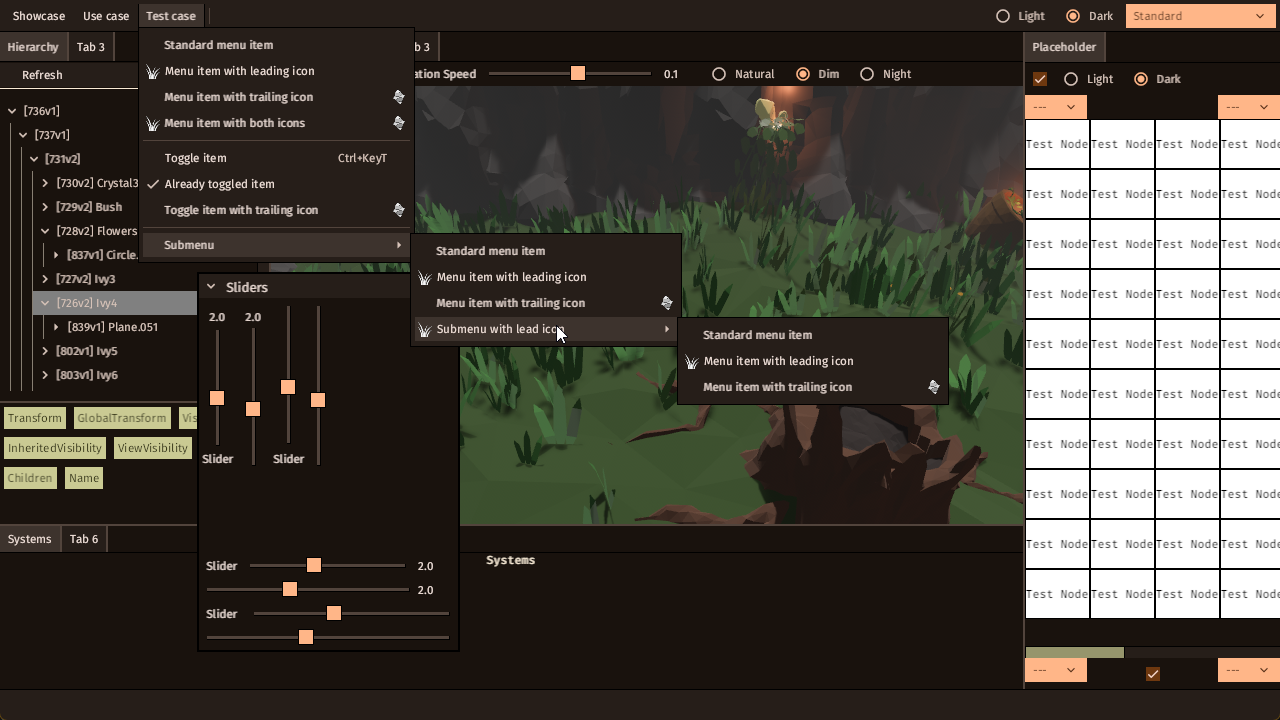
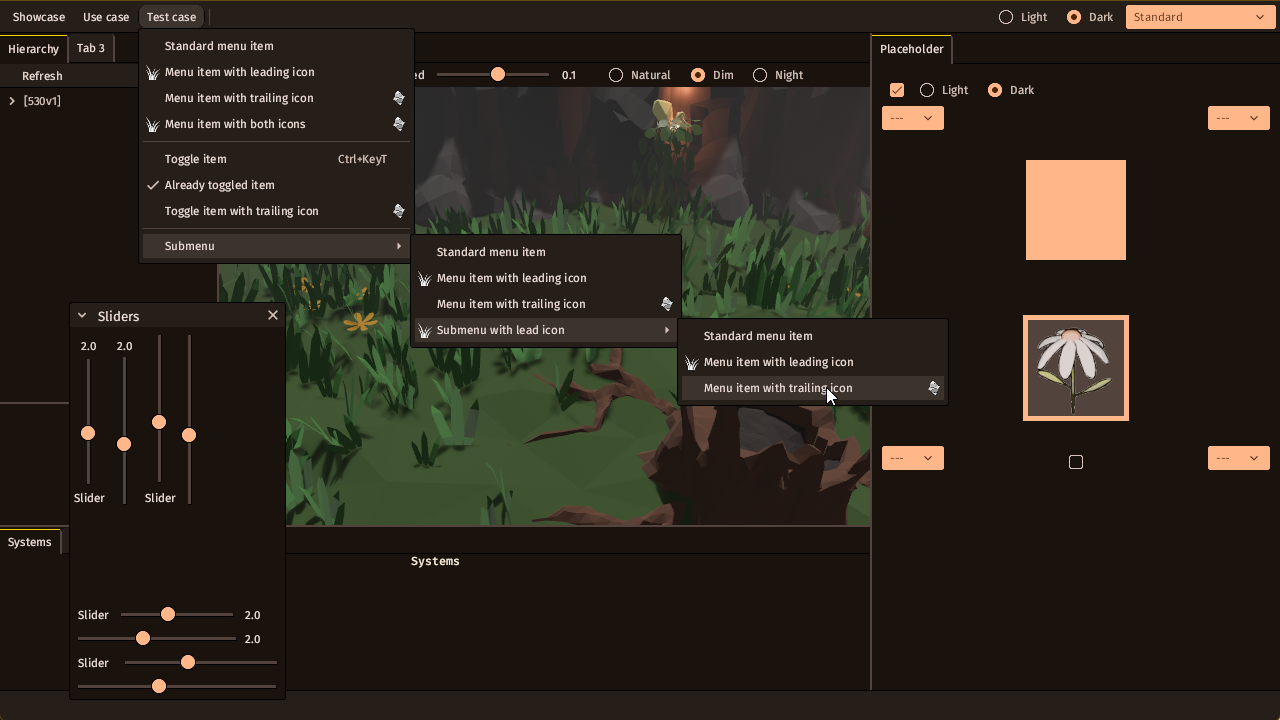
update assets

diff --git a/examples/simple_editor.rs b/examples/simple_editor.rs
@@ -27,7 +27,6 @@ fn main() {
         .add_plugins(OutlinedBlockPlugin)
         .add_plugins(TextureAtlasInteractionPlugin)
         .init_resource::<CurrentPage>()
-        .init_resource::<IconCache>()
         .init_state::<Page>()
         .add_plugins(HierarchyTreeViewPlugin)
         .add_plugins(SceneViewPlugin)
@@ -264,22 +263,32 @@ impl TextureAtlasInteraction {
             .atlas_index(AnimatedVals {
                 enter_from: Some(0),
                 idle: 7,
-                idle_alt: Some(11),
-                hover: Some(12),
-                hover_alt: Some(16),
-                press: Some(29),
+                idle_alt: Some(0),
+                hover: Some(8),
+                hover_alt: Some(15),
+                press: Some(16),
+                press_alt: Some(23),
+                cancel: Some(31),
                 ..default()
             })
-            .copy_from(theme_data.interaction_animation)
-            .enter(0.8, Ease::Linear, 1.)
-            .idle(0.5, Ease::Linear, 0., 0., AnimationLoop::PingPongContinous)
-            .hover(0.5, Ease::Linear, 0., 0., AnimationLoop::PingPongContinous)
-            .press(1.3, Ease::Linear, 0.)
-            .cancel(0.5, Ease::Linear, 0.);
+            .enter(0.4, Ease::Linear, 0.)
+            .idle(0.4, Ease::Linear, 0., 0., AnimationLoop::PingPongContinous)
+            .pointer_enter(0.4, Ease::Linear, 0.)
+            .hover(0.4, Ease::Linear, 0., 0., AnimationLoop::PingPongContinous)
+            .pointer_leave(0.4, Ease::Linear, 0.)
+            .press(0.4, Ease::Linear, 0.)
+            .pressed(0.4, Ease::Linear, 0., 0., AnimationLoop::PingPongContinous)
+            .release(0.4, Ease::Linear, 0.)
+            .cancel(0.8, Ease::Linear, 0.)
+            .cancel_reset(1.2, Ease::InOutCubic, 0.1);
     }
 
     fn frame() -> impl Bundle {
-        (Name::new("TextureAtlasInteraction"), ImageBundle::default())
+        (
+            Name::new("TextureAtlasInteraction"),
+            ImageBundle::default(),
+            Outline::default(),
+        )
     }
 }
 
@@ -292,8 +301,8 @@ impl UiTextureAtlasInteractionExt for UiBuilder<'_, Entity> {
         let mut result = self.spawn((TextureAtlasInteraction::frame(), TextureAtlasInteraction));
         // TODO: Replace with sharable asset
         result.style().image(ImageSource::Atlas(
-            String::from("examples/30FPS_ASLight_05_Sparkle.png"),
-            TextureAtlasLayout::from_grid(UVec2::splat(192), 5, 6, None, None),
+            String::from("examples/Daisy.png"),
+            TextureAtlasLayout::from_grid(UVec2::splat(128), 8, 4, None, None),
         ));
 
         result
@@ -329,40 +338,13 @@ struct HierarchyPanel;
 #[reflect(Resource)]
 struct CurrentPage(Page);
 
-#[derive(Resource, Debug, Default, Reflect)]
-#[reflect(Resource)]
-struct IconCache(Vec<Handle<Image>>);
-
 #[derive(Component, Debug)]
 pub struct ThemeSwitch;
 
 #[derive(Component, Debug)]
 pub struct ThemeContrastSelect;
 
-fn setup(
-    asset_server: Res<AssetServer>,
-    mut icon_cache: ResMut<IconCache>,
-    mut commands: Commands,
-) {
-    // Workaround for disappearing icons when they are despawned and spawned back in during the same frame
-    // Should be fixed in Bevy > 0.13
-    let icons_to_cache: Vec<&str> = vec![
-        "embedded://sickle_ui/icons/checkmark.png",
-        "embedded://sickle_ui/icons/chevron_down.png",
-        "embedded://sickle_ui/icons/chevron_left.png",
-        "embedded://sickle_ui/icons/chevron_right.png",
-        "embedded://sickle_ui/icons/chevron_up.png",
-        "embedded://sickle_ui/icons/close.png",
-        "embedded://sickle_ui/icons/exit_white.png",
-        "embedded://sickle_ui/icons/popout_white.png",
-        "embedded://sickle_ui/icons/redo_white.png",
-        "embedded://sickle_ui/icons/submenu_white.png",
-    ];
-
-    for icon in icons_to_cache.iter() {
-        icon_cache.0.push(asset_server.load(*icon));
-    }
-
+fn setup(mut commands: Commands) {
     // The main camera which will render UI
     let main_camera = commands
         .spawn((

diff --git a/CREDITS.md b/CREDITS.md
@@ -4,3 +4,4 @@
 
 * Icons by EidLoi@UmbraLuminosa
 * 3D low poly scene by raindaizy@UmbraLuminosa
+* Daisy sprite sheet by raindaizy@UmbraLuminosa
